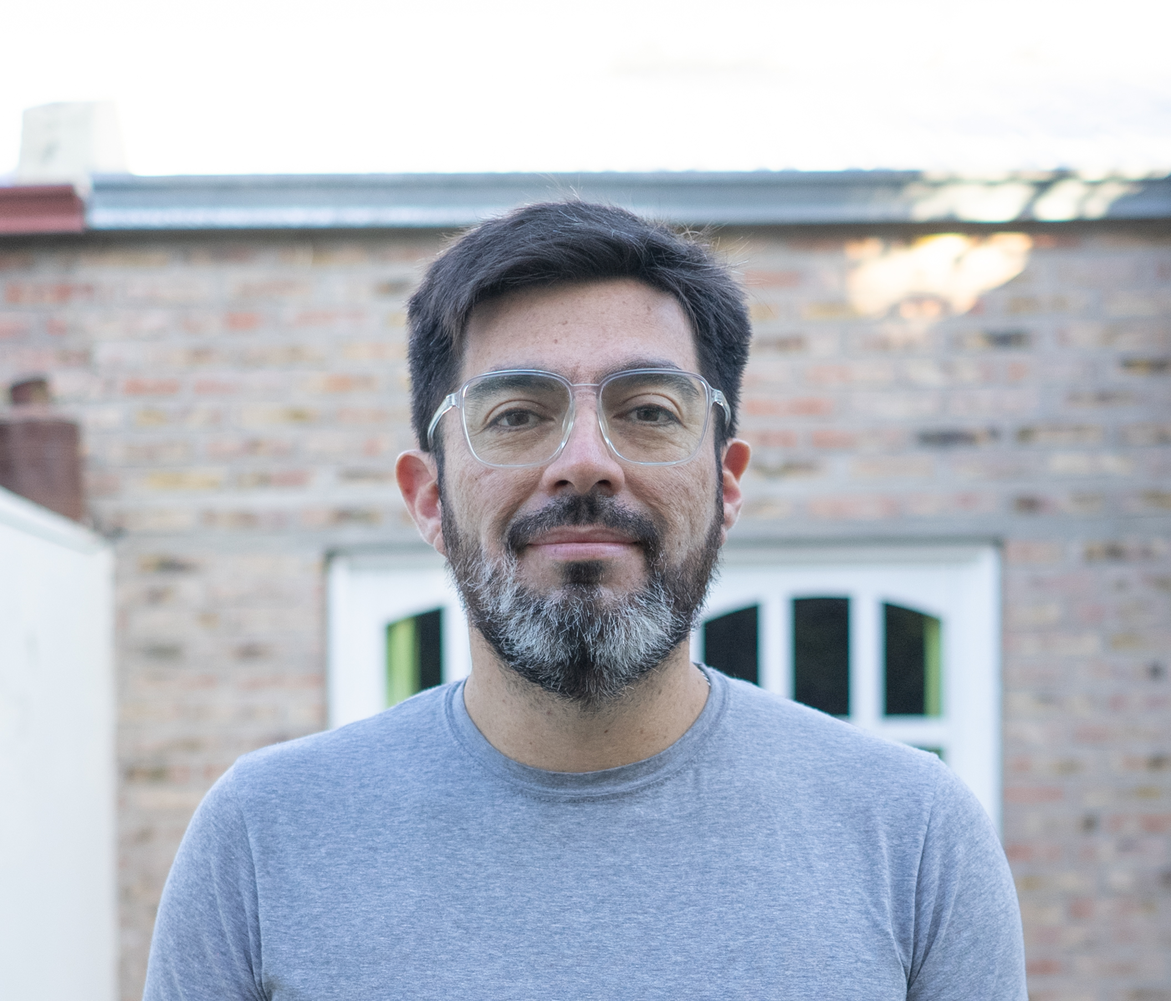
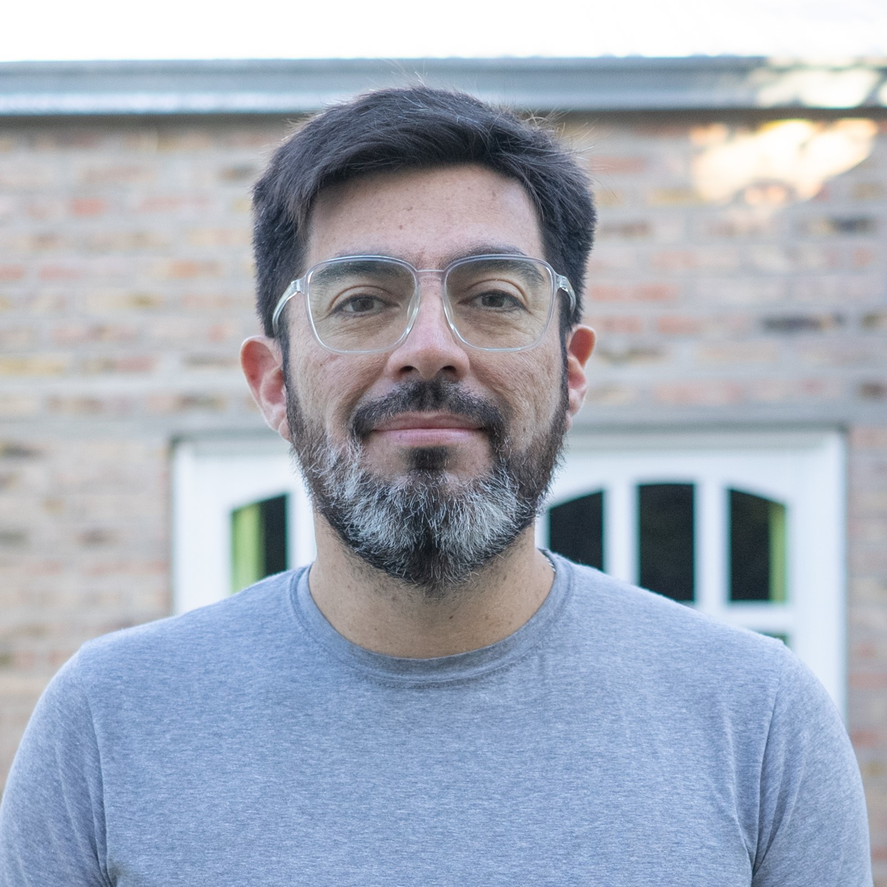
Archivo CSS y carpeta 01

diff --git a/index.html b/index.html
@@ -3,15 +3,19 @@
 <head>
     
     <title>Cristián Mansilla Lizama</title>
+    <link rel="stylesheet" href="style.css">
 </head>
 
 <body>
-    <section>
+    <header>
         <h1>Currículum Vitae</h1>
-        <img src="Imagen/_DSC0011-1.jpg" width="250px">
+    </header>
+
+        <section class="contenido">  
+        <img  class="foto" src="Imagen/_DSC0011-1.jpg" width="250px">
         <hr>
     
-       
+    
             <h3>Datos Personales</h3>
             <ul>Nombre Completo: <b>Cristián Eduardo Mansilla Lizama</b></ul>
             <ul>Fecha de Nacimiento: <b>3 de abril de 1984</b></ul>
@@ -35,8 +39,9 @@
                 <hr>
 
         
+                
             <h3>Acerca de mi</h3>
-            <p>Mi nombre es Cristian Mansilla Lizama, vivo en la localidad de Villa Regina,
+            <p class="acerca">Mi nombre es Cristian Mansilla Lizama, vivo en la localidad de Villa Regina,
                 en la provincia de Río Negro. Actualmente estoy en primer año de la formación de Coaching
                 Ontológico Profesional en la Escuela Internacional de Formación New Coaching.
                 También tengo un emprendimiento de Carpintería denominado el <i>"Taller de Cris"</i>,
@@ -67,10 +72,10 @@
 
 <footer>
     <h3>Contacto:</h3>
-    <p> <a href="mailto: mansillalizamacristian@gmail.com"> Escribe un correo </a></p>
-    <p>0299 - 5935235</p>
-    <p> <a target="_blank" href="https://www.youtube.com/channel/UC20x_Qk_QnwJs8712YotMeg">
-        El Taller de Cris</a> Suscribite </p>
+    <p class="piedepagina"> <img src="Iconos/Mail.svg" alt="correo" width="35px"> <br> <a href="mailto: mansillalizamacristian@gmail.com"> Escribe un correo </a></p>
+    <p class="piedepagina"> <img src="Iconos/Whatsapp.svg" width="35px"> <br> 0299 - 5935235</p>
+    <p class="piedepagina"> <img src="Iconos/Youtube.svg" width="35px"> <br> <a target="_blank" href="https://www.youtube.com/channel/UC20x_Qk_QnwJs8712YotMeg">
+        El Taller de Cris</a> ¡Suscribite! </p>
 
 
 </footer>

diff --git a/style.css b/style.css
@@ -1,0 +1,94 @@
+body{
+    font-family: "Montserrat", sans-serif;
+    background-color: #efefef;
+    margin: 10px;
+}
+header{
+    position: static;
+    top: 0px;
+    height: 80px;
+    width: 100%;
+}
+
+h1{
+    font-family: "Noto Sans", sans-serif;
+    font-style: italic;
+    background-color: blueviolet;
+    text-align: center;
+    color: rgb(0, 225, 255);
+    padding: 2rem;
+    /* position: fixed; 
+    top: 0px;
+    height: 40px;
+    width: 100%; */
+
+    /* EN ESTE LUGAR TRATÉ DE DEJAR LA CAJA FIJA, SIN EMBARGO QUEDÓ UNA FRANJA HORIZONTAL TRANSPARENTE
+    SOBRE ELLA Y SE PODÍAN VER LOS TEXTOS E IMAGENES QUE PASABAN TRAS ELLA AL HACER SCROLL. */
+}
+
+p{
+    font-size: 1rem;
+    text-align: justify;
+}
+
+.piedepagina{
+    text-align: center;
+    background-color: rgb(183, 116, 245);
+    width: 218px;
+    text-align: center;
+    padding: 1rem 0rem;
+    display: inline-block;
+    text-align: center;
+    justify-content: space-between;
+}
+
+.foto{
+    width: 220px;
+    /* margin: 9rem 2rem 0rem; */
+    margin: 0rem 2rem;
+    border-radius: 200px 200px 200px 0px
+}
+
+.foto:hover{
+    rotate: -2deg;
+    transition: all 0.3s ease;
+    box-shadow: 0.1rem 0.4rem  rgba(0, 0, 0, 0.3)
+}
+
+h3{
+  font-style: italic;
+  font-optical-sizing: auto;
+}
+ul{
+    color: black;
+    font-family: "Montserrat", sans-serif;
+    font-size: medium
+}
+
+.contenido{
+    width: 800px;
+    margin: 0 auto;
+}
+
+.acerca{
+    margin: 1rem 2.5rem;
+}
+
+footer{
+    font-family: 'Gill Sans', 'Gill Sans MT', Calibri, 'Trebuchet MS', sans-serif;
+    background-color: #364552;
+    text-align: center;
+    color: #efefef;
+    padding: 0.1rem;
+}
+
+footer a{
+    transition: color 0.3s;
+    color: #efefef;
+    text-decoration: none;
+}
+
+footer a:hover{
+    color: rgb(90, 89, 90);
+}
+
